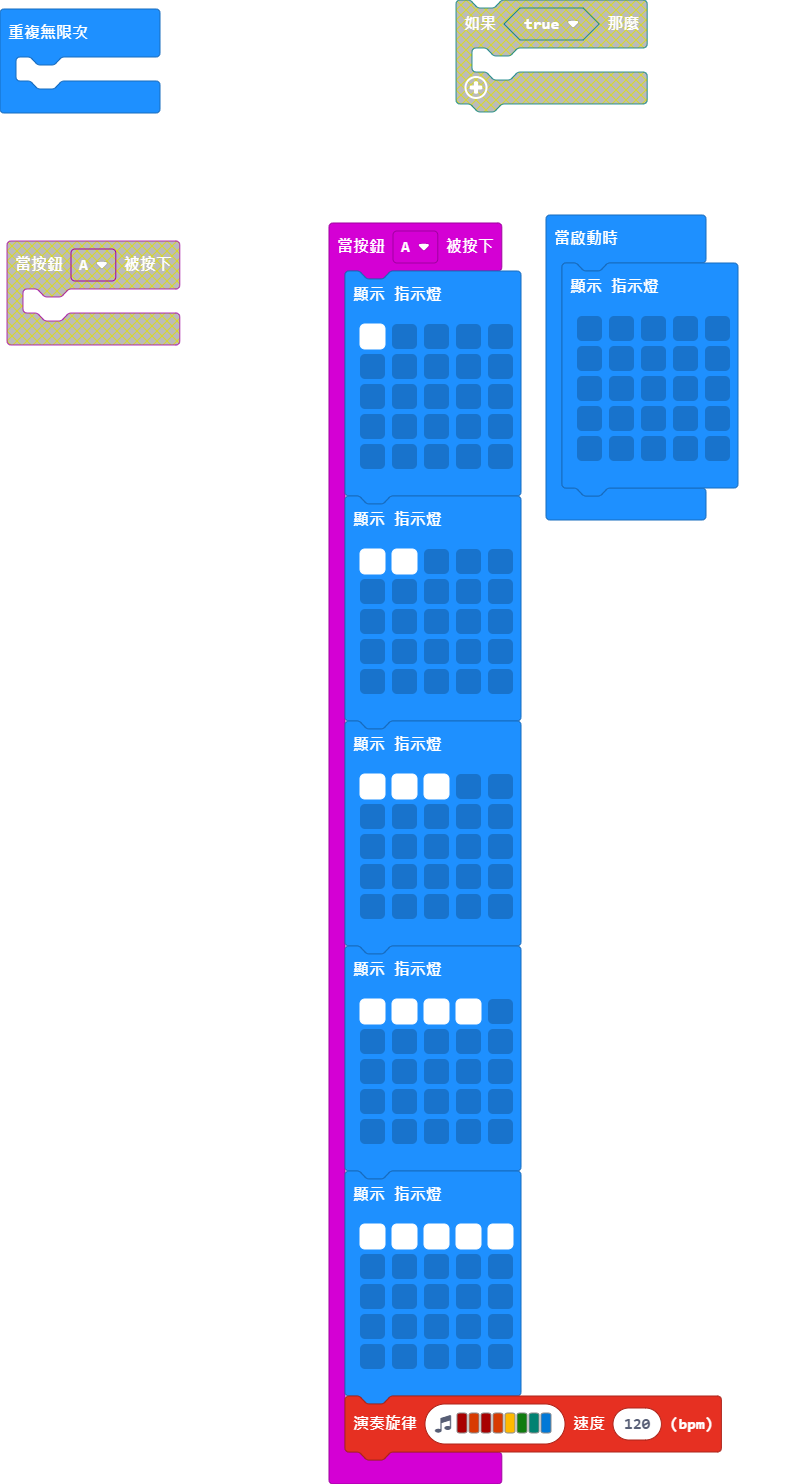
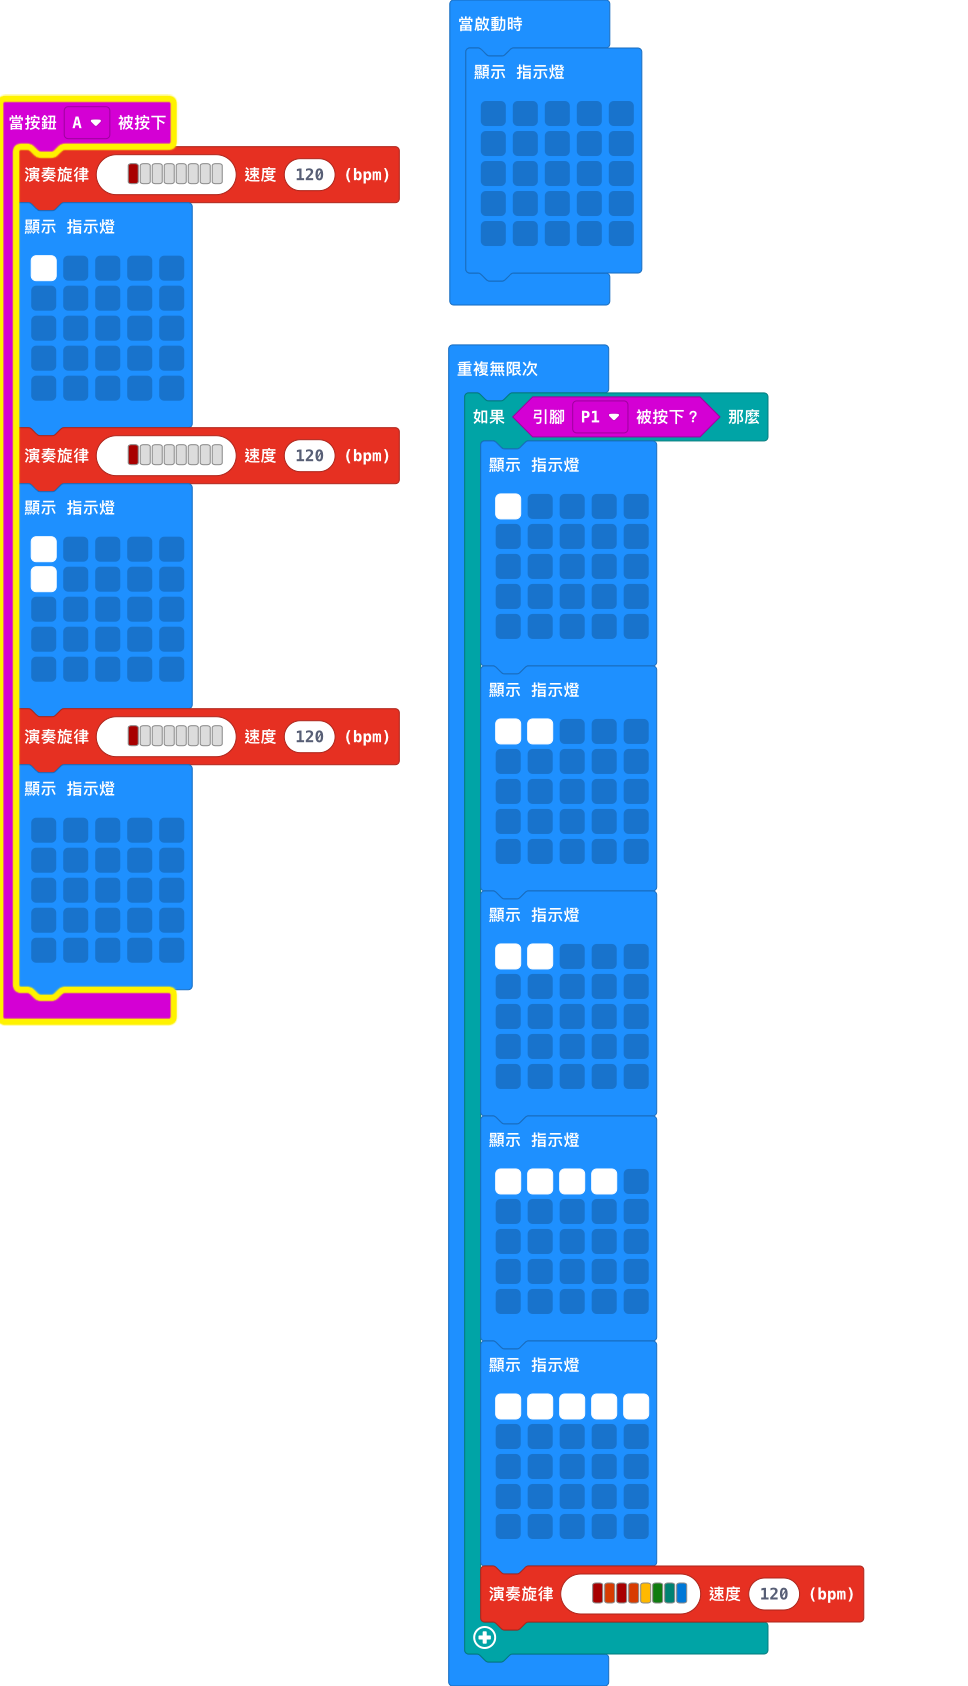
更新 pxt.json, main.blocks, main.ts

diff --git a/main.ts b/main.ts
@@ -1,4 +1,5 @@
 input.onButtonPressed(Button.A, function () {
+    music.playMelody("C5 - - - - - - - ", 120)
     basic.showLeds(`
         # . . . .
         . . . . .
@@ -6,35 +7,22 @@ input.onButtonPressed(Button.A, function () {
         . . . . .
         . . . . .
         `)
+    music.playMelody("C5 - - - - - - - ", 120)
     basic.showLeds(`
-        # # . . .
+        # . . . .
+        # . . . .
+        . . . . .
+        . . . . .
+        . . . . .
+        `)
+    music.playMelody("C5 - - - - - - - ", 120)
+    basic.showLeds(`
+        . . . . .
         . . . . .
         . . . . .
         . . . . .
         . . . . .
         `)
-    basic.showLeds(`
-        # # # . .
-        . . . . .
-        . . . . .
-        . . . . .
-        . . . . .
-        `)
-    basic.showLeds(`
-        # # # # .
-        . . . . .
-        . . . . .
-        . . . . .
-        . . . . .
-        `)
-    basic.showLeds(`
-        # # # # #
-        . . . . .
-        . . . . .
-        . . . . .
-        . . . . .
-        `)
-    music.playMelody("C5 B C5 B A G F E ", 120)
 })
 basic.showLeds(`
     . . . . .
@@ -44,5 +32,42 @@ basic.showLeds(`
     . . . . .
     `)
 basic.forever(function () {
-	
+    if (input.pinIsPressed(TouchPin.P1)) {
+        basic.showLeds(`
+            # . . . .
+            . . . . .
+            . . . . .
+            . . . . .
+            . . . . .
+            `)
+        basic.showLeds(`
+            # # . . .
+            . . . . .
+            . . . . .
+            . . . . .
+            . . . . .
+            `)
+        basic.showLeds(`
+            # # . . .
+            . . . . .
+            . . . . .
+            . . . . .
+            . . . . .
+            `)
+        basic.showLeds(`
+            # # # # .
+            . . . . .
+            . . . . .
+            . . . . .
+            . . . . .
+            `)
+        basic.showLeds(`
+            # # # # #
+            . . . . .
+            . . . . .
+            . . . . .
+            . . . . .
+            `)
+        music.playMelody("C5 B C5 B A G F E ", 120)
+    }
 })
